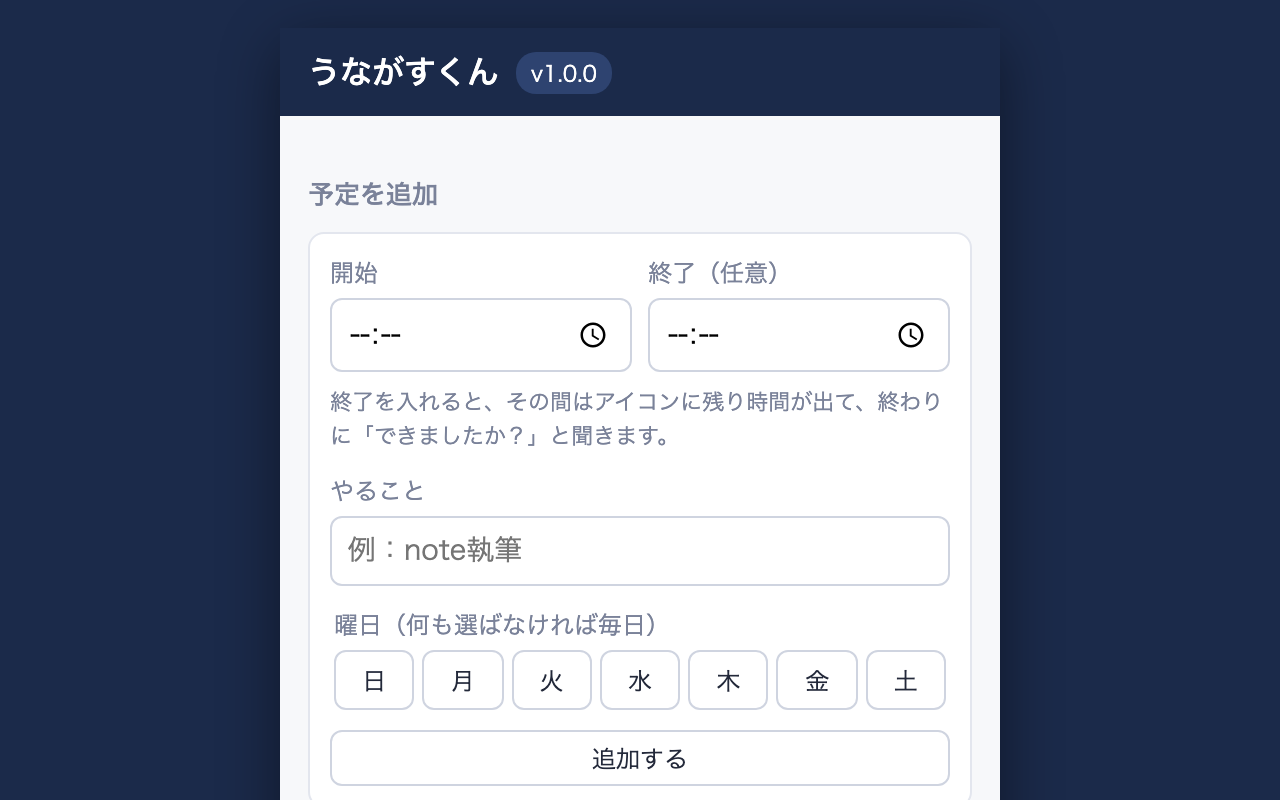
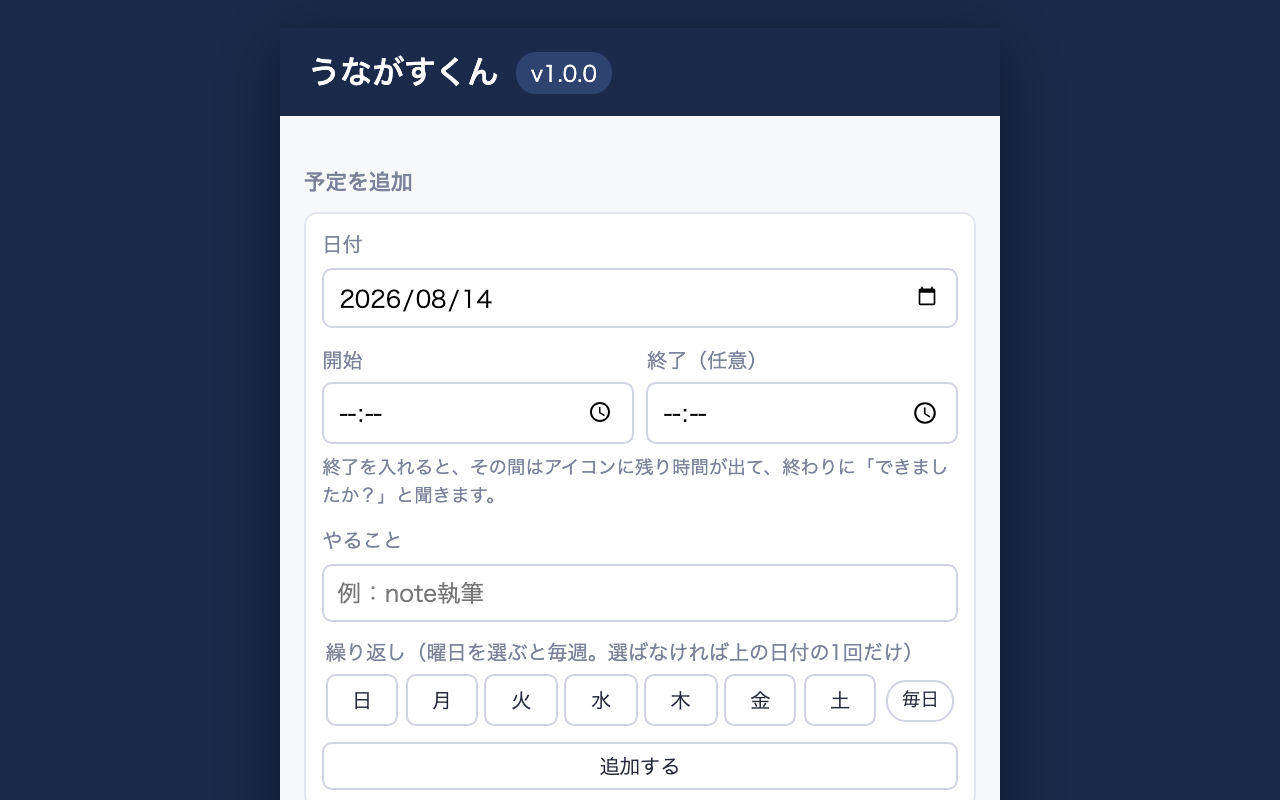
予定モデルを刷新：日付指定の1回だけ予定を既定に、曜日選択で毎週繰り返し
実機フィードバック対応。登録済みが空のときの案内表示、入力欄クリックで
ピッカーを開く（showPicker）、「毎日」一括選択ボタン、過去日時の
バリデーション、期限切れの1回だけ予定の自動片付けを追加。

diff --git a/extension/sidepanel.js b/extension/sidepanel.js
@@ -356,14 +356,22 @@ function buildNoteRow(item) {
   return row;
 }
 
-function daysText(days) {
-  if (!Array.isArray(days) || days.length === 0) return T('everyday');
-  return days.slice().sort().map((d) => DAY_NAMES[d]).join('・');
+// 予定の繰り返し表示。1回だけなら「8/15（金）のみ」、毎週なら曜日、全曜日なら「毎日」
+function repeatText(item) {
+  if (isOneOff(item)) {
+    const [y, m, d] = item.date.split('-').map(Number);
+    const dayName = DAY_NAMES[new Date(y, m - 1, d).getDay()];
+    return T('onceOn', [`${m}/${d}(${dayName})`]);
+  }
+  if (!Array.isArray(item.days) || item.days.length === 0) return T('everydayBtn'); // 旧形式＝毎日
+  if (item.days.length === 7) return T('everydayBtn');
+  return item.days.slice().sort().map((d) => DAY_NAMES[d]).join('・');
 }
 
 function isTodayItem(item) {
   if (!item.enabled) return false;
-  if (!Array.isArray(item.days) || item.days.length === 0) return true;
+  if (isOneOff(item)) return item.date === todayKey();
+  if (!Array.isArray(item.days) || item.days.length === 0) return true; // 旧形式＝毎日
   return item.days.includes(new Date().getDay());
 }
 
@@ -390,8 +398,8 @@ function renderToday() {
     label.textContent = item.label;
     card.append(time, label);
 
-    // 連続記録（2日以上続いていたら見せる。スキップでは切れない）
-    const streak = streakFor(records, item.id, now, item.days);
+    // 連続記録（繰り返し予定のみ。2日以上続いていたら見せる。スキップでは切れない）
+    const streak = isOneOff(item) ? 0 : streakFor(records, item.id, now, item.days);
     if (streak >= 2) {
       const st = document.createElement('span');
       st.className = 'streak';
@@ -440,8 +448,10 @@ function renderToday() {
 
 function renderItems() {
   const listEl = document.getElementById('item-list');
+  const emptyEl = document.getElementById('items-empty');
   listEl.textContent = '';
   const items = schedule.slice().sort((a, b) => a.time.localeCompare(b.time));
+  emptyEl.hidden = items.length > 0;
   for (const item of items) {
     const card = document.createElement('div');
     card.className = 'card' + (item.enabled ? '' : ' disabled');
@@ -454,7 +464,7 @@ function renderItems() {
     label.textContent = item.label;
     const days = document.createElement('span');
     days.className = 'days';
-    days.textContent = daysText(item.days);
+    days.textContent = repeatText(item);
 
     const toggleBtn = document.createElement('button');
     toggleBtn.textContent = item.enabled ? T('pauseBtn') : T('resumeBtn');
@@ -513,6 +523,11 @@ function setSelectedDays(days) {
   });
 }
 
+// 曜日を選んでいる間は日付が使われないので、入力欄を無効化して意味を見せる
+function syncDateDisabled() {
+  document.getElementById('input-date').disabled = selectedDays().length > 0;
+}
+
 function startEdit(id) {
   const item = schedule.find((it) => it.id === id);
   if (!item) return;
@@ -520,10 +535,12 @@ function startEdit(id) {
   document.getElementById('form-title').textContent = T('editHeading');
   document.getElementById('save-btn').textContent = T('saveBtn');
   document.getElementById('cancel-btn').hidden = false;
+  document.getElementById('input-date').value = item.date || todayKey();
   document.getElementById('input-time').value = item.time;
   document.getElementById('input-end-time').value = item.endTime || '';
   document.getElementById('input-label').value = item.label;
   setSelectedDays(item.days);
+  syncDateDisabled();
   document.getElementById('edit-section').scrollIntoView({ behavior: 'smooth' });
 }
 
@@ -533,7 +550,9 @@ function resetForm() {
   document.getElementById('save-btn').textContent = T('addBtn');
   document.getElementById('cancel-btn').hidden = true;
   document.getElementById('item-form').reset();
+  document.getElementById('input-date').value = todayKey();
   setSelectedDays([]);
+  syncDateDisabled();
 }
 
 document.getElementById('item-form').addEventListener('submit', async (e) => {
@@ -547,6 +566,17 @@ document.getElementById('item-form').addEventListener('submit', async (e) => {
     return;
   }
   const days = selectedDays();
+  // 曜日なし＝日付指定の1回だけ。過去の日時は受け付けない
+  const date = days.length === 0 ? document.getElementById('input-date').value : undefined;
+  if (date) {
+    if (!/^\d{4}-\d{2}-\d{2}$/.test(date)) return;
+    const [y, m, d] = date.split('-').map(Number);
+    const [hh, mm] = time.split(':').map(Number);
+    if (new Date(y, m - 1, d, hh, mm).getTime() <= Date.now()) {
+      alert(T('pastDateTime'));
+      return;
+    }
+  }
 
   if (editingId) {
     const item = schedule.find((it) => it.id === editingId);
@@ -555,6 +585,7 @@ document.getElementById('item-form').addEventListener('submit', async (e) => {
       item.endTime = endTime || undefined;
       item.label = label;
       item.days = days;
+      item.date = date;
       item.updatedAt = Date.now();
     }
   } else {
@@ -564,6 +595,7 @@ document.getElementById('item-form').addEventListener('submit', async (e) => {
       endTime: endTime || undefined,
       label,
       days,
+      date,
       enabled: true,
       createdAt: Date.now(),
       updatedAt: Date.now()
@@ -596,6 +628,23 @@ document.getElementById('cancel-btn').addEventListener('click', resetForm);
   DAY_NAMES = ['day0', 'day1', 'day2', 'day3', 'day4', 'day5', 'day6'].map((k) => T(k));
   NOTE_CHOICES = ['chipOtherWork', 'chipBreak', 'chipBrowsing', 'chipNoMood'].map((k) => T(k));
   buildDayBoxes();
+  // 曜日の選択状態で日付欄の有効/無効を切り替える
+  document.getElementById('day-boxes').addEventListener('change', syncDateDisabled);
+  // 「毎日」ボタン：全曜日を一括で付け外しする
+  document.getElementById('btn-everyday').addEventListener('click', () => {
+    const boxes = [...document.querySelectorAll('#day-boxes input')];
+    const allChecked = boxes.every((b) => b.checked);
+    boxes.forEach((b) => { b.checked = !allChecked; });
+    syncDateDisabled();
+  });
+  // 入力欄はクリックしただけでピッカーを開く（時計/カレンダーアイコンを狙わなくて済むように)
+  for (const inputId of ['input-date', 'input-time', 'input-end-time']) {
+    const el = document.getElementById(inputId);
+    el.addEventListener('click', () => {
+      try { el.showPicker(); } catch { /* ジェスチャー扱いされない環境では無視 */ }
+    });
+  }
+  resetForm();
   await load();
   renderAll();
   // 通知ボタンからの実績記録を画面に反映する

diff --git a/extension/sidepanel.html b/extension/sidepanel.html
@@ -26,6 +26,10 @@
     <section id="edit-section">
       <h2 id="form-title" data-i18n="addHeading">予定を追加</h2>
       <form id="item-form">
+        <label class="field">
+          <span data-i18n="dateLabel">日付</span>
+          <input type="date" id="input-date" required>
+        </label>
         <div class="field time-range">
           <label>
             <span data-i18n="startLabel">開始</span>
@@ -42,8 +46,11 @@
           <input type="text" id="input-label" data-i18n-placeholder="labelPlaceholder" placeholder="例：note執筆" maxlength="50" required>
         </label>
         <fieldset class="field">
-          <legend data-i18n="daysLegend">曜日（何も選ばなければ毎日）</legend>
-          <div id="day-boxes" class="day-boxes"></div>
+          <legend data-i18n="daysLegend">繰り返し（曜日を選ぶと毎週。選ばなければ上の日付の1回だけ）</legend>
+          <div class="day-row">
+            <div id="day-boxes" class="day-boxes"></div>
+            <button type="button" id="btn-everyday" class="chip" data-i18n="everydayBtn">毎日</button>
+          </div>
         </fieldset>
         <div class="form-buttons">
           <button type="submit" id="save-btn" data-i18n="addBtn">追加する</button>
@@ -53,6 +60,7 @@
 
       <h2 data-i18n="listHeading">登録済みの予定</h2>
       <div id="item-list" class="list"></div>
+      <p id="items-empty" class="empty-note" data-i18n="itemsEmpty" hidden>登録済みの予定はまだありません。</p>
     </section>
   </main>
 

diff --git a/extension/logic.js b/extension/logic.js
@@ -19,12 +19,26 @@ function isScheduledOn(days, date) {
   return !Array.isArray(days) || days.length === 0 || days.includes(date.getDay());
 }
 
-// 予定 item が次に来る日時を返す。無効な予定や曜日が空振りなら null。
-// item: { time: "HH:MM", days: [0-6の配列。空なら毎日], enabled: true }
+// 1回だけの予定か（日付があり、曜日の繰り返しがない）
+function isOneOff(item) {
+  return !!(item && item.date) && (!Array.isArray(item.days) || item.days.length === 0);
+}
+
+// 予定 item が次に来る日時を返す。無効な予定や空振りなら null。
+// item: { time: "HH:MM", date?: "YYYY-MM-DD"（1回だけ）, days: [0-6]（毎週繰り返し）, enabled }
+// days が空で date も無い旧形式は「毎日」として扱う（後方互換）
 function nextOccurrence(item, now) {
   if (!item || !item.enabled || !/^\d{2}:\d{2}$/.test(item.time || '')) return null;
   const [hh, mm] = item.time.split(':').map(Number);
   if (hh > 23 || mm > 59) return null;
+
+  if (isOneOff(item)) {
+    if (!/^\d{4}-\d{2}-\d{2}$/.test(item.date)) return null;
+    const [y, mo, d] = item.date.split('-').map(Number);
+    const cand = new Date(y, mo - 1, d, hh, mm, 0, 0);
+    return cand.getTime() > now.getTime() ? cand : null;
+  }
+
   for (let add = 0; add < 8; add++) {
     const cand = new Date(now.getFullYear(), now.getMonth(), now.getDate() + add, hh, mm, 0, 0);
     if (cand.getTime() <= now.getTime()) continue;

diff --git a/extension/sidepanel.css b/extension/sidepanel.css
@@ -214,7 +214,7 @@ form { background: var(--card); border: 1px solid #e3e6ee; border-radius: 8px; p
 .field { display: block; margin-bottom: 10px; border: none; padding: 0; }
 .field > span, .field legend { display: block; font-size: 12px; color: var(--muted); margin-bottom: 4px; padding: 0; }
 
-.field input[type="text"], .field input[type="time"] {
+.field input[type="text"], .field input[type="time"], .field input[type="date"] {
   width: 100%;
   padding: 6px 8px;
   border: 1px solid #cfd4e0;
@@ -222,6 +222,12 @@ form { background: var(--card); border: 1px solid #e3e6ee; border-radius: 8px; p
   font-size: 14px;
   font-family: inherit;
 }
+
+.field input:disabled { background: #eef0f5; color: var(--muted); }
+
+.day-row { display: flex; align-items: center; gap: 6px; }
+.day-row .day-boxes { flex: 1; }
+.day-row .chip { white-space: nowrap; }
 
 .day-boxes { display: flex; gap: 4px; }
 

diff --git a/extension/background.js b/extension/background.js
@@ -85,8 +85,19 @@ async function finishBlockIfDue() {
 
 async function rescheduleAll() {
   await chrome.alarms.clearAll();
-  const schedule = await getSchedule();
+  let schedule = await getSchedule();
   const now = new Date();
+
+  // 日付が過ぎた「1回だけ」の予定は翌日以降に自動で片付ける（実績の記録は残る）
+  const today = dateKey(now);
+  const alive = schedule.filter((item) => !(isOneOff(item) && item.date < today));
+  if (alive.length !== schedule.length) {
+    schedule = alive;
+    await chrome.storage.local.set({ schedule });
+    // この set が storage.onChanged 経由で rescheduleAll をもう一度呼ぶが、
+    // 2回目は削除対象が無いのでここには戻らない（無限ループにならない）
+  }
+
   for (const item of schedule) {
     const next = nextOccurrence(item, now);
     if (next) {

diff --git a/README.md b/README.md
@@ -5,7 +5,7 @@
 
 ## 機能（v0.2.0）
 
-- **予定の登録**：時刻＋やること＋曜日（未選択なら毎日）をサイドパネルから登録
+- **予定の登録**：日付＋時刻＋やること。1回だけの予定（既定）も、曜日を選んだ毎週繰り返しも作れる。日付が過ぎた1回だけの予定は自動で片付く（記録は残る）
 - **時間通知**：設定時刻に通知を表示。「できた」「今日はスキップ」ボタンでその場で記録
 - **時間帯ブロック**：終了時刻（任意）を入れると、進行中はツールバーアイコンに残り分数を表示し、
   終わりに「できましたか？」と聞いて記録まで閉じる
